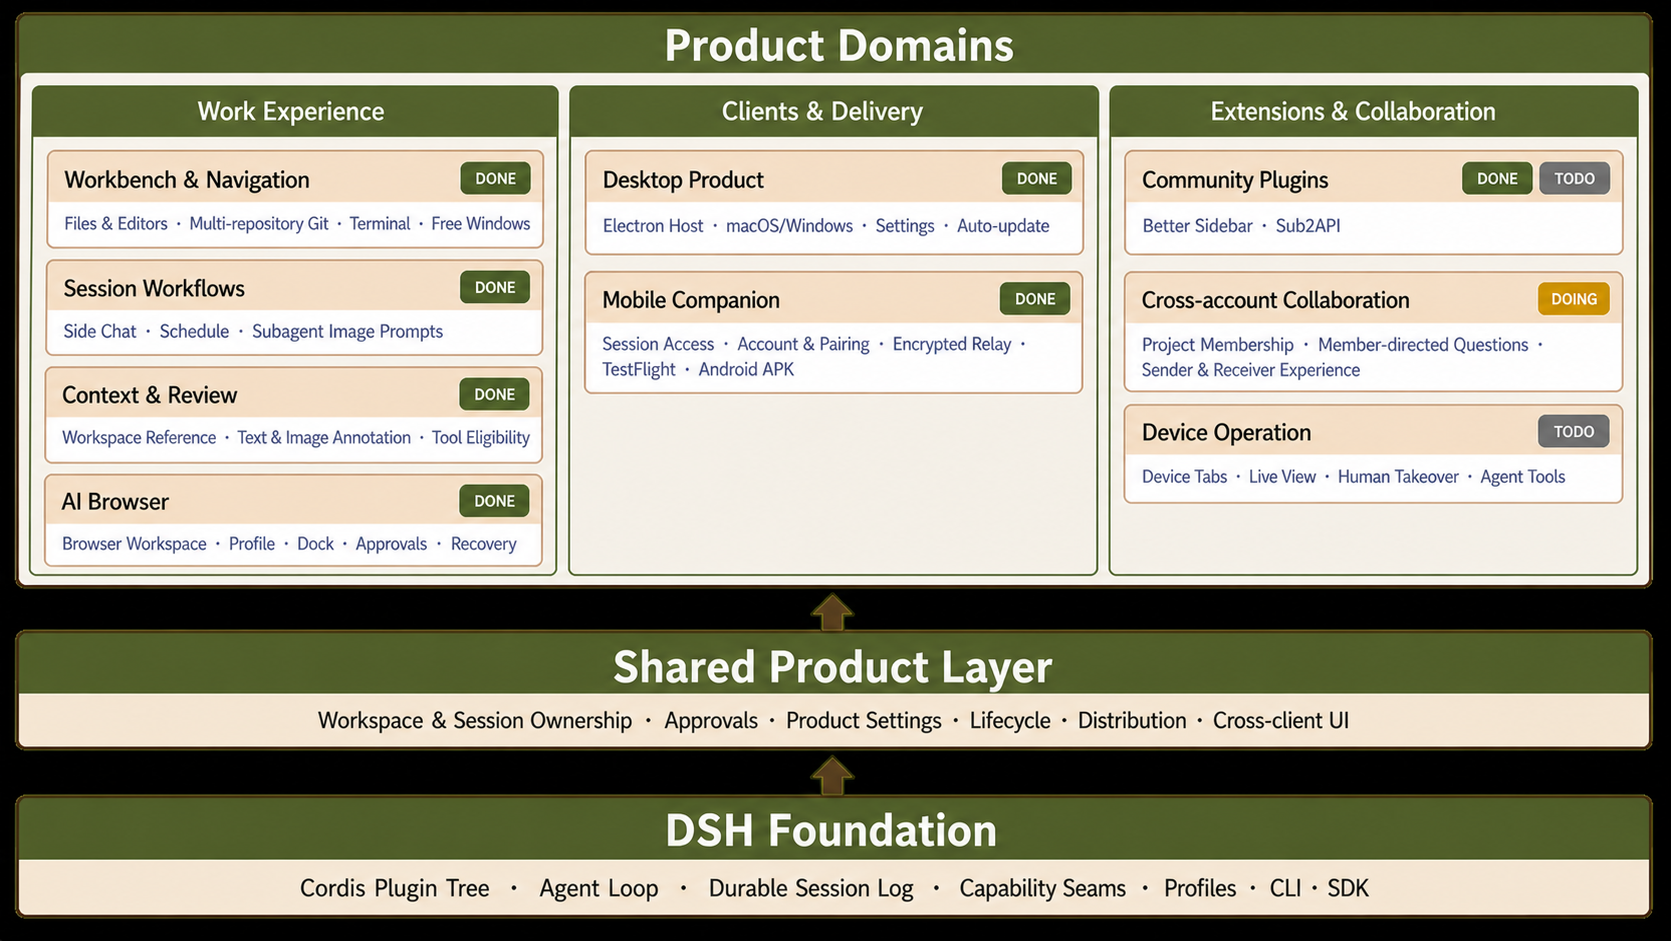
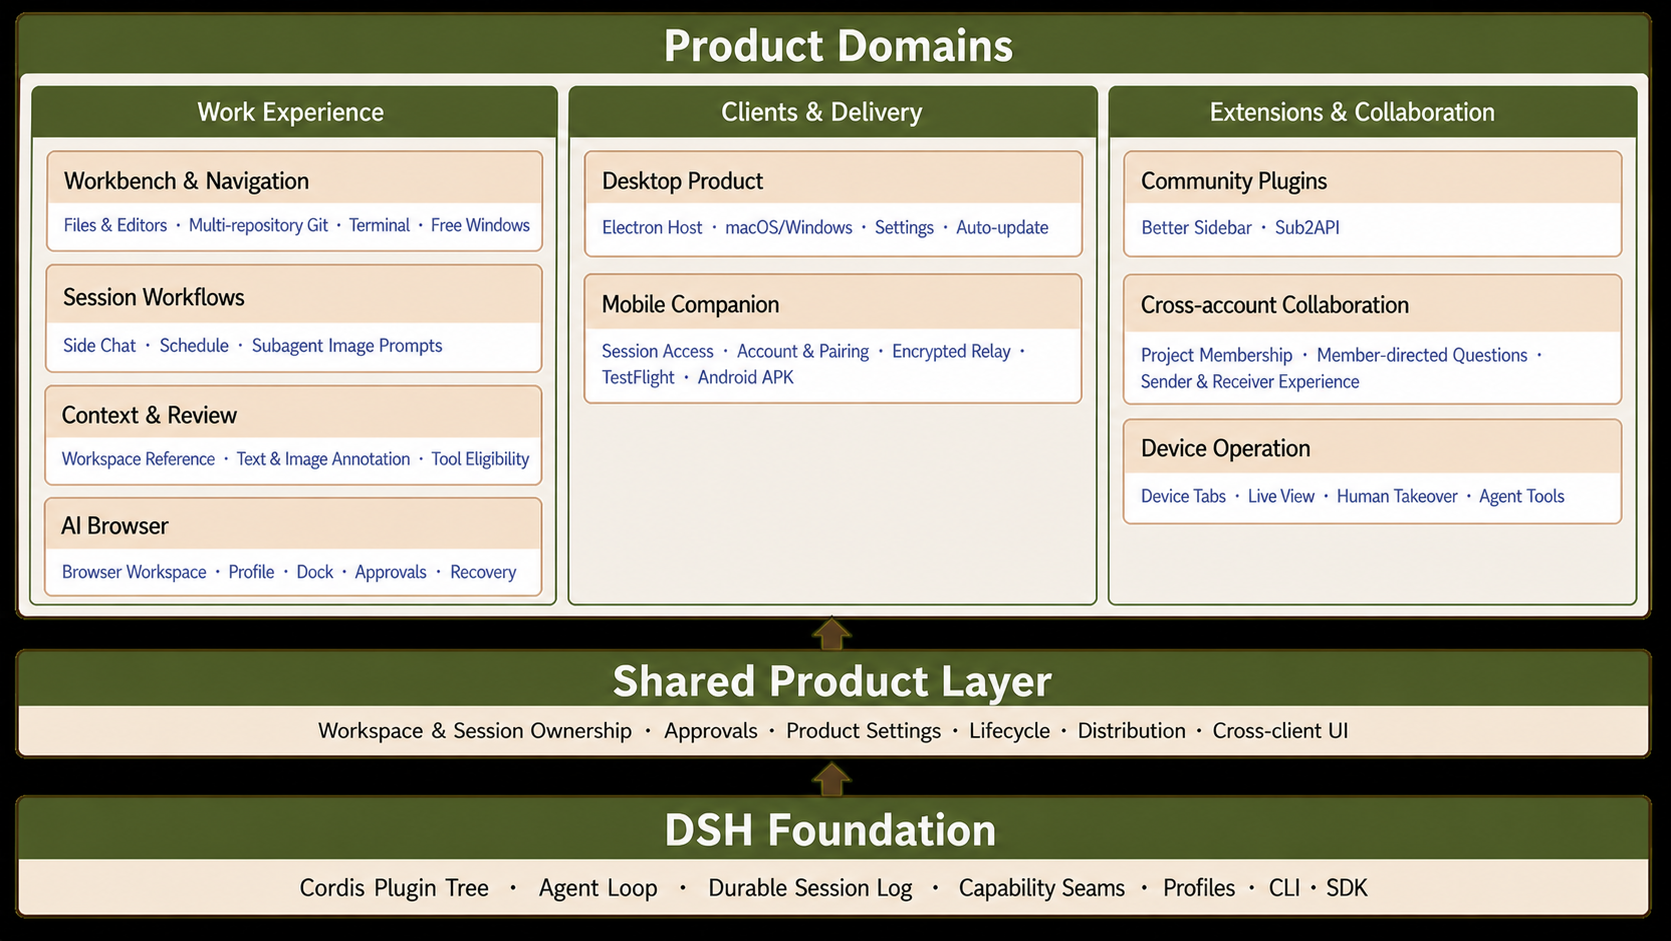
docs: resolve README review blockers

Changed region(s): [[0.0, 0.0308, 0.9958, 0.8321], [0.1867, 0.8629, 0.8402, 0.9554]]

diff --git a/README.zh.md b/README.zh.md
@@ -43,31 +43,31 @@
       <td rowspan="6" valign="top"><strong>工作体验域</strong></td>
       <td>Workbench 与导航</td>
       <td><code>DONE</code><br><code>TODO</code> <a href="https://github.com/gestaltrun/deepseek-harness-gestalt/issues/226">简化 Browser 所有权</a></td>
-      <td><a href="packages/client/ui-better-sidebar/README.zh.md">Better Sidebar</a>提供文件、编辑器、多仓库 Git、Markdown/HTML、终端、自由窗口和由 agent 打开的 tab；<a href="packages/client/ui-workbench/README.zh.md">Workbench 适配器</a>承载官方 Browser Runtime</td>
+      <td><a href="packages/client/ui-better-sidebar/README.zh.md">Better Sidebar</a> 提供文件、编辑器、多仓库 Git、Markdown/HTML、终端、自由窗口和由 agent 打开的 tab；<a href="packages/client/ui-workbench/README.zh.md">Workbench 适配器</a> 承载官方 Browser Runtime</td>
       <td><img src="https://raw.githubusercontent.com/gestaltrun/deepseek-harness-gestalt/5ea5bae18c9083d1c200173ed8bb05e903fc3e1d/better-sidebar-v0.16.1-pr317-16311605.gif" alt="獭子哥 Workbench 展示模型回复、仓库文件、Git 视图和侧边栏工具" width="520"></td>
     </tr>
     <tr>
       <td>会话工作流</td>
       <td><code>DONE</code></td>
-      <td>持久 <a href="packages/client/ui-better-sidebar/README.zh.md">Side Chat</a>复用主会话的对话 UI、模型、权限、后台任务和下级导航，并在 Host 重启后恢复；具备相应能力的 subagent 提供方也可接收图片提示词</td>
+      <td>持久 <a href="packages/client/ui-better-sidebar/README.zh.md">Side Chat</a> 复用主会话的对话 UI、模型、权限、后台任务和下级导航，并在 Host 重启后恢复；具备相应能力的 subagent 提供方也可接收图片提示词</td>
       <td><img src="https://raw.githubusercontent.com/gestaltrun/deepseek-harness-gestalt/3e32d89ee0e28a15cb099e6b90114601dfc537ce/issue-324-sidechat-restore-8469fa6eb8.gif" alt="Side Chat 在重启后恢复、继续，并在归档后保持关闭" width="520"></td>
     </tr>
     <tr>
       <td>会话工作流</td>
       <td><code>DONE</code></td>
-      <td><a href="packages/client/ui-schedule/README.zh.md">Schedule 任务板</a>管理 agent 创建的提醒，支持暂停、恢复和删除</td>
+      <td><a href="packages/client/ui-schedule/README.zh.md">Schedule 任务板</a> 管理 agent 创建的提醒，支持暂停、恢复和删除</td>
       <td><img src="https://raw.githubusercontent.com/gestaltrun/deepseek-harness-gestalt/8be40575a41afeb231477bdf22ea0eb8976c7d71/issue-25-session-schedule-board.gif" alt="会话日程创建、暂停、恢复和删除提醒" width="520"></td>
     </tr>
     <tr>
       <td>上下文与审阅</td>
       <td><code>DONE</code></td>
-      <td><a href="packages/client/ui-reference/README.zh.md">Workspace Reference</a>支持文件搜索、目录下钻、粘贴控制和 Composer dock，把受限的 <code>@path</code> 上下文加入会话；Workspace Settings 控制哪些工具可以进入会话</td>
+      <td><a href="packages/client/ui-reference/README.zh.md">Workspace Reference</a> 支持文件搜索、目录下钻、粘贴控制和 Composer dock，把受限的 <code>@path</code> 上下文加入会话；Workspace Settings 控制哪些工具可以进入会话</td>
       <td><img src="https://raw.githubusercontent.com/gestaltrun/deepseek-harness-gestalt/a203adc7494cd5d8adae1fa23108afd98f7f022b/pr-164-workspace-reference-parity.gif" alt="Workspace Reference 选择器、目录下钻、Composer dock 和上下文注入" width="520"></td>
     </tr>
     <tr>
       <td>上下文与审阅</td>
       <td><code>DONE</code></td>
-      <td>文本与图片 Annotation 支持选择 assistant 文本、在图片上放置标记、附加说明、恢复草稿，并作为普通用户消息提交</td>
+      <td><a href="packages/client/ui-conversation/README.zh.md">文本与图片 Annotation</a> 支持选择 assistant 文本、在图片上放置标记、附加说明、恢复草稿，并作为普通用户消息提交</td>
       <td><img src="https://raw.githubusercontent.com/gestaltrun/deepseek-harness-gestalt/7edaf7daa3d69b97382ef4b47ce35d37dce863b7/pr-70-text-annotation-517ad8.gif" alt="选择 assistant 文本、添加说明并提交 Annotation 草稿" width="520"></td>
     </tr>
     <tr>
@@ -86,13 +86,13 @@
     <tr>
       <td>Mobile Companion</td>
       <td><code>DONE</code></td>
-      <td><a href="apps/mobile/README.zh.md">Mobile</a>浏览、搜索和继续由 Desktop 管理的会话，并支持提示词、取消、审批、提问、附件与实时投影</td>
+      <td><a href="apps/mobile/README.zh.md">Mobile</a> 浏览、搜索和继续由 Desktop 管理的会话，并支持提示词、取消、审批、提问、附件与实时投影</td>
       <td><img src="https://raw.githubusercontent.com/gestaltrun/deepseek-harness-gestalt/3c711b7f0bc934d55f10dcdb9ee71e91850278f0/mobile-real-provider-98438f2.gif" alt="Mobile Companion 继续由 Desktop 管理的会话" width="260"></td>
     </tr>
     <tr>
       <td>Mobile Companion</td>
       <td><code>DONE</code></td>
-      <td>Platform Account、Personal Pairing、加密 Relay、多手机并发、TestFlight 交付和签名 Android APK；Desktop 继续持有会话、工作空间、附件、审批和提问权威</td>
+      <td><a href="docs/subsystems/platform-account.zh.md">Platform Account</a>、<a href="docs/subsystems/personal-pairing.zh.md">Personal Pairing</a>、加密 Relay、多手机并发、TestFlight 交付和签名 Android APK；Desktop 继续持有会话、工作空间、附件、审批和提问权威</td>
       <td><img src="https://raw.githubusercontent.com/gestaltrun/deepseek-harness-gestalt/0af70c971b999cc54d18884233d7c59e595aba68/companion-ui-pr-371.gif" alt="Desktop Settings 同时显示两台已配对 Mobile 设备在线" width="520"></td>
     </tr>
     <tr>

diff --git a/.agents/notes/implemented/process/2026-08-28-root-readme-product-evidence.md b/.agents/notes/implemented/process/2026-08-28-root-readme-product-evidence.md
@@ -16,7 +16,7 @@ The root README presents Gestalt as the product layer on top of official DSH. It
 
 The English product name is **Gestalt**. The Chinese product name and IP character are **獭子哥**. The landing page stores and displays the approved character sheet. Existing package names, application identifiers, release tags, and historical references remain unchanged until a separately coordinated rename requires their migration.
 
-Paired English and Chinese PNGs use the same nested rectangular layout. DSH foundation capabilities sit at the bottom, support a shared product layer, and feed three product-area groups with child product areas and concrete functions. The diagrams contain no Gestalt product-name label; each image contains one language rather than bilingual labels. `DONE` requires a capability to be merged into `master`; it does not claim inclusion in the latest packaged release. `DOING` requires active delivery. `TODO` requires an open issue selected for the product plan. The map covers product functions added around the DSH base rather than repeating the official DSH package and tool catalogs.
+Paired English and Chinese PNGs use the same nested rectangular layout. DSH foundation capabilities sit at the bottom, support a shared product layer, and feed three product-area groups with child product areas and concrete functions. The diagrams contain no Gestalt product-name label, and each image contains one language rather than bilingual labels. Completion appears only in the product table; the diagrams contain no status badges. `DONE` requires a capability to be merged into `master`; it does not claim inclusion in the latest packaged release. `DOING` requires active delivery. `TODO` requires an open issue selected for the product plan. The map covers product functions added around the DSH base rather than repeating the official DSH package and tool catalogs.
 
 One vertical HTML table is the README's product-status inventory and feature tour. Separate first-level and second-level product-domain columns repeat the diagram's work-experience, client-delivery, and extension-collaboration hierarchy without tree glyphs; each first-level domain uses one row-spanning cell for its feature rows. Each row names its completion, concrete user behavior, and at most one product recording. Completed functions link their owning product documentation instead of a delivery ledger; planned functions link the tracker item that defines their direction. Recordings cover Workbench and Better Sidebar, Side Chat, Schedule, AI Browser, Workspace Reference, Annotation, and Mobile Companion. Every embedded GIF uses an immutable repository object id.
 

diff --git a/.agents/notes/implemented/process/2026-08-28-root-readme-product-evidence.zh.md b/.agents/notes/implemented/process/2026-08-28-root-readme-product-evidence.zh.md
@@ -16,7 +16,7 @@ Status: implemented
 
 英文产品名是 **Gestalt**，中文产品名与 IP 角色是 **獭子哥**。产品首页保存并展示已经确认的角色设定图。现有包名、应用标识符、发行 tag 和历史引用保持不变，直到另一项协调重命名明确要求迁移。
 
-仓库内成对的中英文 PNG 使用相同的嵌套方框布局。DSH 基础能力位于底部，向上承托共享产品层、三个产品域组、子产品域和具体功能。图中不出现 Gestalt 产品名；每张图片只使用一种语言，不放双语对照标签。`DONE` 要求能力已经合并进 `master`，但不表示它已包含在最新打包版本中。`DOING` 要求存在正在交付的改动。`TODO` 要求存在已经选入产品计划的开放 Issue。该地图介绍 DSH 基础周围增加的产品功能，不重复官方 DSH 的包目录和工具目录。
+仓库内成对的中英文 PNG 使用相同的嵌套方框布局。DSH 基础能力位于底部，向上承托共享产品层、三个产品域组、子产品域和具体功能。图中不出现 Gestalt 产品名，每张图片只使用一种语言，不放双语对照标签。完成度只在产品表格中展示，架构图不放状态徽标。`DONE` 要求能力已经合并进 `master`，但不表示它已包含在最新打包版本中。`DOING` 要求存在正在交付的改动。`TODO` 要求存在已经选入产品计划的开放 Issue。该地图介绍 DSH 基础周围增加的产品功能，不重复官方 DSH 的包目录和工具目录。
 
 README 使用一张纵向 HTML 表格同时承担产品状态清单和功能导览。独立的一级产品域与二级产品域列复用方框图中的工作体验域、客户端与交付域、扩展与协作域层级，不使用树形字符；每个一级产品域用一个跨越所属功能行的单元格展示。每行写明完成度、具体用户行为，并且最多放一段产品录屏。已完成功能链接到所属产品文档，不把交付记录写成产品说明；计划中的功能链接定义方向的 tracker 条目。录屏覆盖 Workbench 与 Better Sidebar、Side Chat、Schedule、AI Browser、Workspace Reference、Annotation 和 Mobile Companion。每个嵌入的 GIF 都在 URL 中使用不可变的仓库对象 id。
 

diff --git a/README.md b/README.md
@@ -67,7 +67,7 @@ Gestalt does not create another agent runtime. Official DSH supplies the plugin 
     <tr>
       <td>Context and review</td>
       <td><code>DONE</code></td>
-      <td>Text and image Annotation selects assistant text or pins images, attaches notes, restores drafts, and submits the result as an ordinary user message</td>
+      <td><a href="packages/client/ui-conversation/README.md">Text and image Annotation</a> selects assistant text or pins images, attaches notes, restores drafts, and submits the result as an ordinary user message</td>
       <td><img src="https://raw.githubusercontent.com/gestaltrun/deepseek-harness-gestalt/7edaf7daa3d69b97382ef4b47ce35d37dce863b7/pr-70-text-annotation-517ad8.gif" alt="Selecting assistant text, adding a note, and submitting the Annotation draft" width="520"></td>
     </tr>
     <tr>
@@ -92,7 +92,7 @@ Gestalt does not create another agent runtime. Official DSH supplies the plugin 
     <tr>
       <td>Mobile Companion</td>
       <td><code>DONE</code></td>
-      <td>Platform Account, Personal Pairing, encrypted Relay, concurrent phones, TestFlight delivery, and a signed Android APK. Desktop remains the authority for Sessions, Workspaces, attachments, approvals, and questions</td>
+      <td><a href="docs/subsystems/platform-account.md">Platform Account</a>, <a href="docs/subsystems/personal-pairing.md">Personal Pairing</a>, encrypted Relay, concurrent phones, TestFlight delivery, and a signed Android APK. Desktop remains the authority for Sessions, Workspaces, attachments, approvals, and questions</td>
       <td><img src="https://raw.githubusercontent.com/gestaltrun/deepseek-harness-gestalt/0af70c971b999cc54d18884233d7c59e595aba68/companion-ui-pr-371.gif" alt="Desktop Settings showing two paired Mobile devices online at the same time" width="520"></td>
     </tr>
     <tr>

diff --git a/.agents/notes/archived/process/2026-07-22-product-first-root-readme.md b/.agents/notes/archived/process/2026-07-22-product-first-root-readme.md
@@ -1,6 +1,7 @@
 # Agent Note: Product-first root README
 
 Status: implemented
+Archived: 2026-08-28
 
 English | [中文](2026-07-22-product-first-root-readme.zh.md)
 

diff --git a/.agents/notes/archived/process/2026-07-22-product-first-root-readme.zh.md b/.agents/notes/archived/process/2026-07-22-product-first-root-readme.zh.md
@@ -1,6 +1,7 @@
 # Agent Note: 产品优先的根 README
 
 Status: implemented
+Archived: 2026-08-28
 
 [English](2026-07-22-product-first-root-readme.md) | 中文
 
